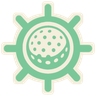
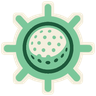
Sidebar brand: the wheel reads filled, the gap round the ball deep green
Owner, 2026-10-16: "now its not filled in its all white".

Changed region(s): [[0.2188, 0.2188, 0.7812, 0.7812], [0.4688, 0.625, 0.5312, 0.6875]]

diff --git a/src/clubhouse/shell/BrandWord.tsx b/src/clubhouse/shell/BrandWord.tsx
@@ -60,7 +60,8 @@ export function BrandLine({ write }: { write: boolean }) {
 /**
  * The wheel, the real logo (owner, 2026-10-16: an ivory border so it stands out, "matte and matching the greens", "use
  * the actual logo", "outline the spokes", "make it look better"). A purpose-made asset from the 300px source
- * (`scripts/clubhouse/make-brand-wheel.py`): recoloured to the mint "helm" is set in, the ball ivory, with a clean
+ * (`scripts/clubhouse/make-brand-wheel.py`): recoloured to the mint "helm" is set in, the ball ivory, the gap
+ * round it deep green so it reads filled ("now its not filled in its all white"), with a clean
  * ivory line traced round the rim and spokes, at 3x so it stays sharp; CSS filters on the small PNG blurred it.
  */
 function HelmMark({ write }: { write: boolean }) {

diff --git a/scripts/clubhouse/make-brand-wheel.py b/scripts/clubhouse/make-brand-wheel.py
@@ -1,12 +1,16 @@
 # Builds public/clubhouse/brand/helm-wheel-sidebar.png, the sidebar brand's wheel (P001), from the 300px logo:
-#   python3 -I scripts/clubhouse/make-brand-wheel.py public/anim/helm-golf-icon.png public/clubhouse/brand/helm-wheel-sidebar.png "#7bc79a" 9 96
+#   python3 -I scripts/clubhouse/make-brand-wheel.py public/anim/helm-golf-icon.png public/clubhouse/brand/helm-wheel-sidebar.png "#7bc79a" 9 96 "#1d5a3b"
 # Recolours white to ivory and green to the given green, traces an ivory outline (radius in source px), squares and
-# resizes to the given size (3x the 32px it is drawn at).
+# resizes to the given size (3x the 32px it is drawn at). The optional last colour fills the light areas other than
+# the ball's face.
 import sys
 from PIL import Image, ImageFilter
 src, out, green, outline_px, size = sys.argv[1], sys.argv[2], sys.argv[3], int(sys.argv[4]), int(sys.argv[5])
+fill = sys.argv[6] if len(sys.argv) > 6 else None
 IVORY=(244,238,221)
-G=tuple(int(green[i:i+2],16) for i in (1,3,5))
+hexrgb=lambda h: tuple(int(h[i:i+2],16) for i in (1,3,5))
+G=hexrgb(green)
+F=hexrgb(fill) if fill else IVORY
 im=Image.open(src).convert('RGBA')
 # pad so the outline has room
 pad=outline_px+4
@@ -15,13 +19,23 @@ base=Image.new('RGBA',(W,W),(0,0,0,0)); base.paste(im,(pad,pad))
 r,g,b,a=base.split()
 # recolour: white -> ivory, green -> matte green, by how far the red channel is from white
 px=base.load()
+# The ball's face: the light pixels reachable from the centre. Every other light area (the gap between ball and rim)
+# takes the fill colour, so the wheel reads solid rather than as an ivory blob.
+face=set(); stack=[(W//2,W//2)]
+while stack:
+    x,y=stack.pop()
+    if (x,y) in face or not (0<=x<W and 0<=y<W): continue
+    R,_,_,A=px[x,y]
+    if A==0 or R<128: continue
+    face.add((x,y)); stack+= [(x+1,y),(x-1,y),(x,y+1),(x,y-1)]
 rec=Image.new('RGBA',base.size,(0,0,0,0)); rp=rec.load()
 for y in range(W):
     for x in range(W):
         R,Gc,B,A=px[x,y]
         if A==0: continue
         t=max(0.0,min(1.0,(255-R)/254))
-        rp[x,y]=tuple(int(IVORY[i]*(1-t)+G[i]*t) for i in range(3))+(A,)
+        light=IVORY if (x,y) in face or R<128 else F
+        rp[x,y]=tuple(int(light[i]*(1-t)+G[i]*t) for i in range(3))+(A,)
 # outline: dilate the alpha
 dil=a.filter(ImageFilter.MaxFilter(outline_px*2+1)).filter(ImageFilter.GaussianBlur(0.8))
 ol=Image.new('RGBA',base.size,IVORY+(0,)); ol.putalpha(dil)

diff --git a/docs/clubhouse/pages/P001-shell/CHANGELOG.md b/docs/clubhouse/pages/P001-shell/CHANGELOG.md
@@ -9,8 +9,10 @@ SVG wheel, the PNG in an ivory-ringed disc, and CSS drop-shadow outlines on the
 116px PNG (soft and fuzzy at 28px). Now a purpose-made asset,
 `public/clubhouse/brand/helm-wheel-sidebar.png` (96px, drawn at 30px), built
 from the 300px logo by `scripts/clubhouse/make-brand-wheel.py`: the green
-recoloured to the mint "helm" uses (#7bc79a), the white to ivory (#f4eedd), and
-a clean ivory line traced round the rim and spokes. No filters at runtime.
+recoloured to the mint "helm" uses (#7bc79a), the ball's face ivory (#f4eedd),
+the gap between ball and rim deep green (#1d5a3b; all ivory read as "not filled
+in"), and a clean ivory line traced round the rim and spokes. No filters at
+runtime.
 
 ## 2026-10-16 — The wordmark in Norican, in its frosted panel
 
